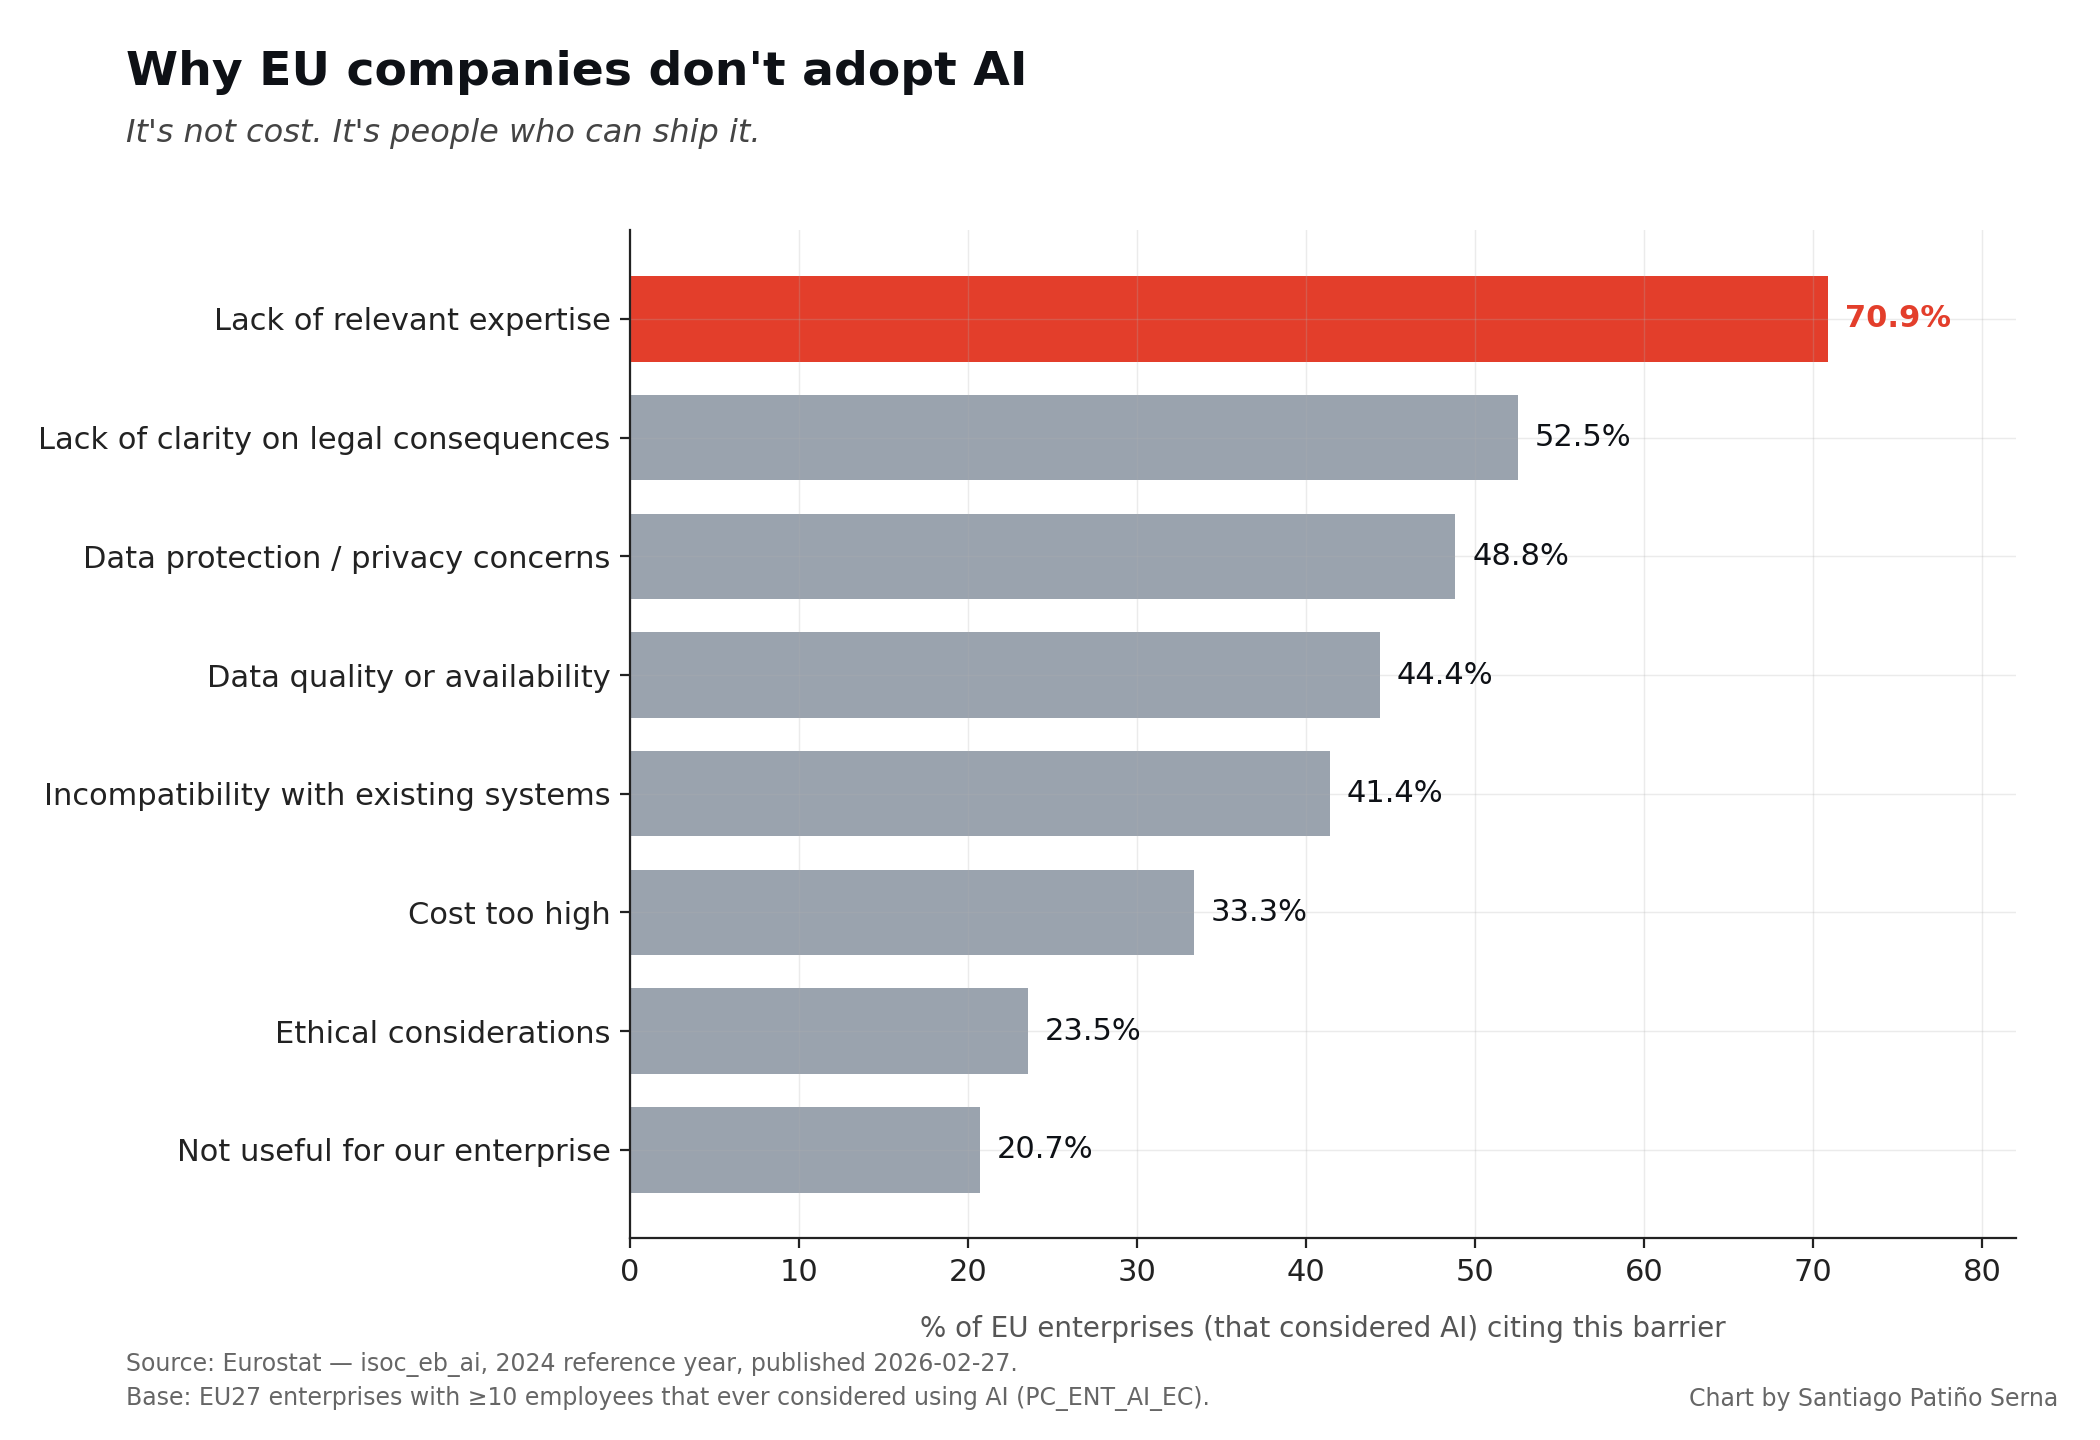
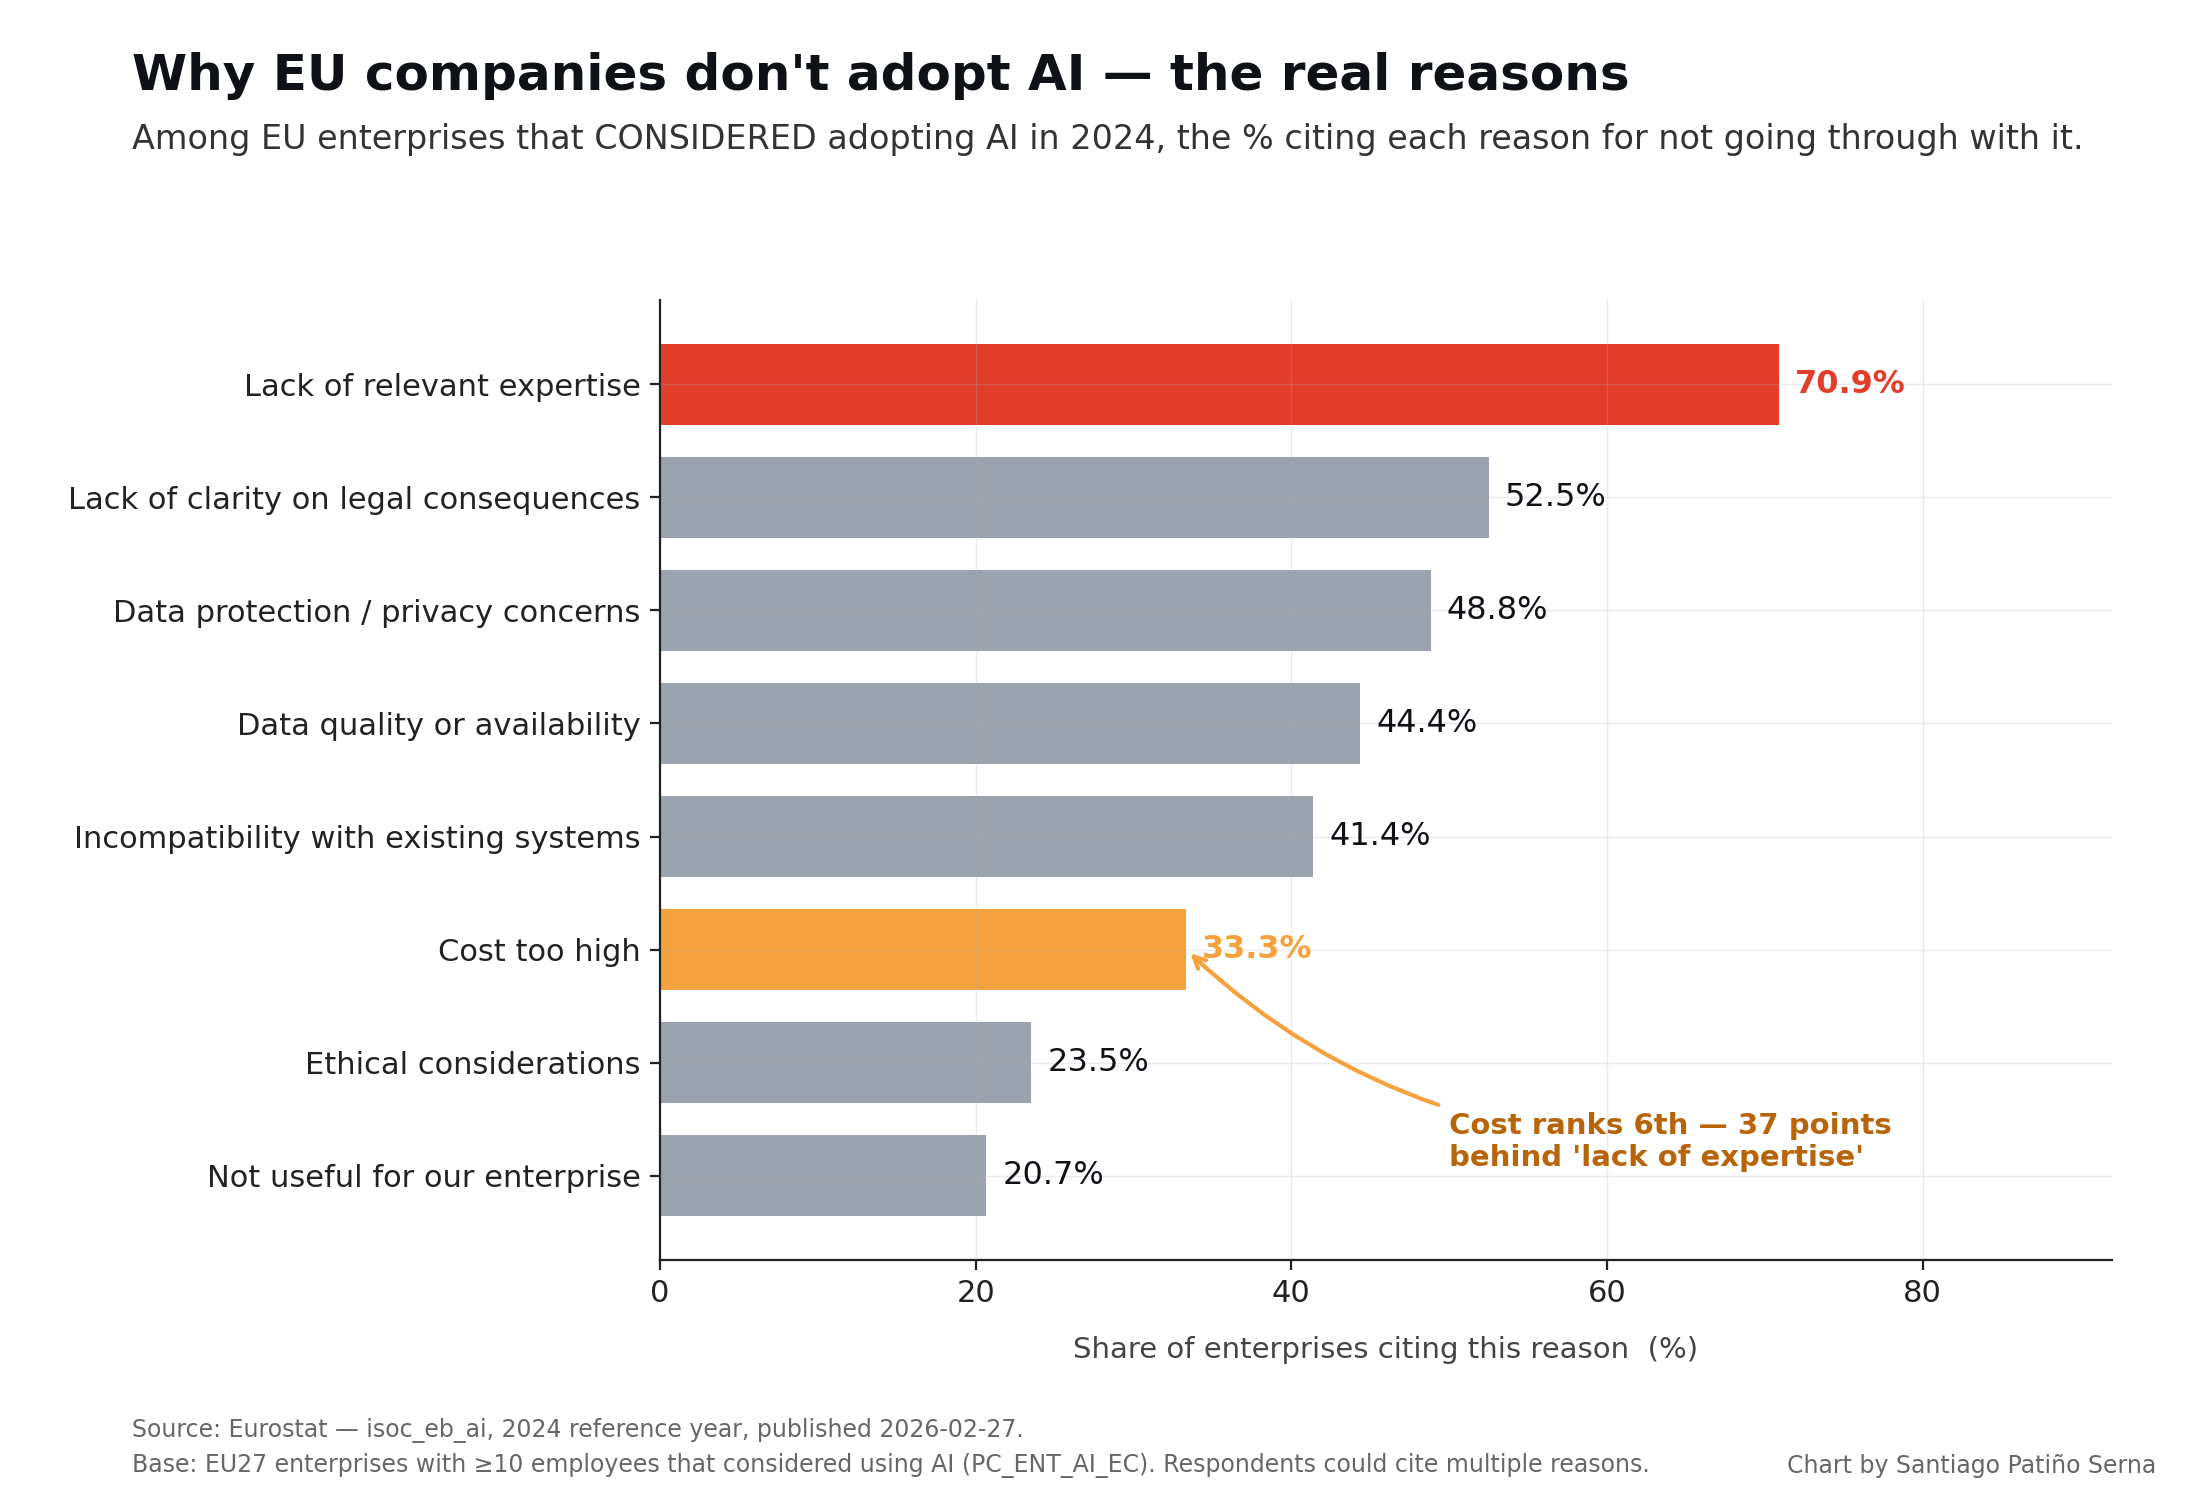
charts: clearer titles + subtitles + annotations
- Each chart now states WHAT is measured in the subtitle (not just axis label)
- Added highlight annotations to surface the surprise finding directly
- Chart 1: arrow to 'Cost ranks 6th — 37 points behind expertise'
- Chart 2: Spain 5.1x gap annotation, fixed '32 countries' label
- Chart 3: 'ChatGPT launched Nov 2022. 41 months later: 1 in 20'
- Fixed footer/xlabel overlap

diff --git a/scripts/chart.py b/scripts/chart.py
@@ -1,9 +1,11 @@
 """
-Build three charts (PNGs in charts/):
+Build three charts (PNGs in charts/). Each chart must communicate
+in 1 second what is being measured, who is in the universe, and what
+the finding is.
 
-  chart_barriers.png      ── Why EU enterprises don't adopt AI
-  chart_size_gap.png      ── AI adoption: small vs large by country
-  chart_genai_reality.png ── EU GenAI use in production
+  chart_barriers.png      ── Why EU enterprises don't adopt AI (cost ranks 6th)
+  chart_size_gap.png      ── AI adoption: small vs large enterprise by country
+  chart_genai_reality.png ── EU GenAI use in production is 5.41%
 
 Run from repo root:  python scripts/chart.py
 """
@@ -40,16 +42,18 @@ BG = "#FFFFFF"
 
 
 def add_titles(fig, title, subtitle):
-    fig.text(0.06, 0.965, title, fontsize=17, fontweight="bold", color=INK, ha="left", va="top")
-    fig.text(0.06, 0.918, subtitle, fontsize=11.5, color="#444", style="italic", ha="left", va="top")
+    fig.text(0.06, 0.965, title, fontsize=18, fontweight="bold", color=INK, ha="left", va="top")
+    fig.text(0.06, 0.918, subtitle, fontsize=12, color="#333", ha="left", va="top")
 
 
 def add_footer(fig, source, credit="Chart by Santiago Patiño Serna"):
-    fig.text(0.06, 0.02, source, fontsize=8.5, color="#666", ha="left", va="bottom", linespacing=1.5)
-    fig.text(0.98, 0.02, credit, fontsize=8.5, color="#666", ha="right", va="bottom")
+    fig.text(0.06, 0.015, source, fontsize=8.5, color="#666", ha="left", va="bottom", linespacing=1.5)
+    fig.text(0.98, 0.015, credit, fontsize=8.5, color="#666", ha="right", va="bottom")
 
 
-# ---------- CHART 1: barriers ----------
+# ===================================================================
+# CHART 1 — Barriers
+# ===================================================================
 barriers = [
     ("Lack of relevant expertise",            70.89),
     ("Lack of clarity on legal consequences", 52.52),
@@ -62,40 +66,55 @@ barriers = [
 ]
 labels = [b[0] for b in barriers][::-1]
 values = [b[1] for b in barriers][::-1]
-colors = [HIGHLIGHT if v == 70.89 else MUTED for v in values]
+colors = [HIGHLIGHT if v == 70.89 else ("#F4A23E" if v == 33.34 else MUTED) for v in values]
 
-fig, ax = plt.subplots(figsize=(10.5, 7.2), dpi=200)
+fig, ax = plt.subplots(figsize=(11, 7.5), dpi=200)
 fig.patch.set_facecolor(BG); ax.set_facecolor(BG)
-fig.subplots_adjust(left=0.30, right=0.96, top=0.84, bottom=0.14)
+fig.subplots_adjust(left=0.30, right=0.96, top=0.80, bottom=0.16)
 
 bars = ax.barh(labels, values, color=colors, edgecolor="none", height=0.72)
-for bar, v in zip(bars, values):
+for bar, v, l in zip(bars, values, labels):
+    is_top = (v == 70.89)
+    is_cost = (l == "Cost too high")
+    color = HIGHLIGHT if is_top else ("#F4A23E" if is_cost else INK)
+    weight = "bold" if (is_top or is_cost) else "normal"
     ax.text(v + 1, bar.get_y() + bar.get_height()/2, f"{v:.1f}%",
-            va="center", ha="left", fontsize=11,
-            color=HIGHLIGHT if v == 70.89 else INK,
-            fontweight="bold" if v == 70.89 else "normal")
-ax.set_xlim(0, 82)
-ax.set_xlabel("% of EU enterprises (that considered AI) citing this barrier",
-              fontsize=10, color="#555", labelpad=10)
+            va="center", ha="left", fontsize=11.5,
+            color=color, fontweight=weight)
+
+cost_y_idx = labels.index("Cost too high")
+ax.annotate("Cost ranks 6th — 37 points\nbehind 'lack of expertise'",
+            xy=(33.34, cost_y_idx), xytext=(50, cost_y_idx - 1.7),
+            fontsize=10.5, color="#B8650A", fontweight="bold",
+            ha="left", va="center",
+            arrowprops=dict(arrowstyle="->", color="#F4A23E", lw=1.5,
+                            connectionstyle="arc3,rad=-0.2"))
+
+ax.set_xlim(0, 92)
+ax.set_xlabel("Share of enterprises citing this reason  (%)",
+              fontsize=10.5, color="#444", labelpad=10)
+
 add_titles(fig,
-           "Why EU companies don't adopt AI",
-           "It's not cost. It's people who can ship it.")
+           "Why EU companies don't adopt AI — the real reasons",
+           "Among EU enterprises that CONSIDERED adopting AI in 2024, the % citing each reason for not going through with it.")
 add_footer(fig,
            "Source: Eurostat — isoc_eb_ai, 2024 reference year, published 2026-02-27.\n"
-           "Base: EU27 enterprises with ≥10 employees that ever considered using AI (PC_ENT_AI_EC).")
+           "Base: EU27 enterprises with ≥10 employees that considered using AI (PC_ENT_AI_EC). Respondents could cite multiple reasons.")
 plt.savefig(os.path.join(CHARTS_DIR, "chart_barriers.png"), dpi=200, facecolor=BG)
 print("Saved charts/chart_barriers.png"); plt.close()
 
 
-# ---------- CHART 2: small vs large dumbbell ----------
+# ===================================================================
+# CHART 2 — Size gap dumbbell
+# ===================================================================
 df_gap = pd.read_csv(os.path.join(DATA_DIR, "ai_adoption_country_size_gap.csv"))
 df_gap = df_gap.dropna(subset=["small_10_49", "large_250plus"]).copy()
 df_gap = df_gap.sort_values("small_10_49", ascending=True).reset_index(drop=True)
 HILITE = {"Spain": HIGHLIGHT, "France": "#F39C12"}
 
-fig, ax = plt.subplots(figsize=(10.5, 11.5), dpi=200)
+fig, ax = plt.subplots(figsize=(11, 12), dpi=200)
 fig.patch.set_facecolor(BG); ax.set_facecolor(BG)
-fig.subplots_adjust(left=0.22, right=0.96, top=0.92, bottom=0.08)
+fig.subplots_adjust(left=0.22, right=0.96, top=0.90, bottom=0.10)
 
 y = np.arange(len(df_gap))
 for i, row in df_gap.iterrows():
@@ -104,11 +123,11 @@ for i, row in df_gap.iterrows():
     dot_small = color_lbl if color_lbl else "#6B7280"
     dot_large = color_lbl if color_lbl else INK
     ax.hlines(i, row["small_10_49"], row["large_250plus"],
-              color=line_color, linewidth=2.4, alpha=0.85, zorder=1)
-    ax.scatter(row["small_10_49"], i, s=70, color=dot_small, zorder=2,
-               edgecolor="white", linewidth=0.8)
-    ax.scatter(row["large_250plus"], i, s=110, color=dot_large, zorder=3,
-               edgecolor="white", linewidth=0.8)
+              color=line_color, linewidth=2.6, alpha=0.85, zorder=1)
+    ax.scatter(row["small_10_49"], i, s=80, color=dot_small, zorder=2,
+               edgecolor="white", linewidth=1)
+    ax.scatter(row["large_250plus"], i, s=130, color=dot_large, zorder=3,
+               edgecolor="white", linewidth=1)
 
 display_labels = [
     lbl.replace("European Union - 27 countries (from 2020)", "EU27")
@@ -116,28 +135,43 @@ display_labels = [
     for lbl in df_gap["geo_label"]
 ]
 ax.set_yticks(y)
-ax.set_yticklabels(display_labels, fontsize=9.5)
+ax.set_yticklabels(display_labels, fontsize=10)
 for tick, lbl in zip(ax.get_yticklabels(), df_gap["geo_label"]):
     if lbl in HILITE:
         tick.set_color(HILITE[lbl]); tick.set_fontweight("bold")
-ax.set_xlim(0, 75)
-ax.set_xlabel("% of enterprises using at least one AI technology, 2024",
-              fontsize=10, color="#555", labelpad=10)
+
+spain_idx = df_gap.index[df_gap["geo_label"] == "Spain"].tolist()
+if spain_idx:
+    si = spain_idx[0]
+    ax.annotate(f"Spain: 5.1× gap\n(8.6% small → 44.0% large)",
+                xy=(43.96, si), xytext=(54, si + 1.5),
+                fontsize=10.5, color=HIGHLIGHT, fontweight="bold",
+                ha="left", va="center",
+                arrowprops=dict(arrowstyle="->", color=HIGHLIGHT, lw=1.4,
+                                connectionstyle="arc3,rad=0.2"))
+
+ax.set_xlim(0, 80)
+ax.set_xlabel("Share of enterprises using at least one AI technology  (%)",
+              fontsize=10.5, color="#444", labelpad=10)
+
 small_dot = mpatches.Patch(color="#6B7280", label="Small (10–49 employees)")
 large_dot = mpatches.Patch(color=INK,       label="Large (250+ employees)")
 ax.legend(handles=[small_dot, large_dot], loc="lower right",
-          frameon=False, fontsize=10)
+          frameon=False, fontsize=10.5)
+
 add_titles(fig,
-           "The AI mid-market gap is structural, not cultural",
-           "Small enterprises (10–49) vs large (250+) — 32 European countries, 2024")
+           "The bigger the company, the more AI it uses",
+           "Gap between small (10–49 employees) and large (250+) in each country — 2024, 32 countries.")
 add_footer(fig,
            "Source: Eurostat — isoc_eb_ai, 2024 reference year, published 2026-02-27.\n"
-           "Indicator E_AI_TANY, unit PC_ENT (% of enterprises in size class).")
+           "Indicator E_AI_TANY (uses at least one AI tech), unit PC_ENT (% of enterprises in each size class).")
 plt.savefig(os.path.join(CHARTS_DIR, "chart_size_gap.png"), dpi=200, facecolor=BG)
 print("Saved charts/chart_size_gap.png"); plt.close()
 
 
-# ---------- CHART 3: GenAI reality ----------
+# ===================================================================
+# CHART 3 — GenAI reality
+# ===================================================================
 genai = [
     ("ML / deep learning",   4.24),
     ("Image recognition",    3.23),
@@ -151,24 +185,34 @@ labels3 = [b[0] for b in genai]
 values3 = [b[1] for b in genai]
 colors3 = [HIGHLIGHT if "GenAI" in l else MUTED for l in labels3]
 
-fig, ax = plt.subplots(figsize=(10.5, 6), dpi=200)
+fig, ax = plt.subplots(figsize=(11, 6.5), dpi=200)
 fig.patch.set_facecolor(BG); ax.set_facecolor(BG)
-fig.subplots_adjust(left=0.22, right=0.96, top=0.82, bottom=0.20)
+fig.subplots_adjust(left=0.22, right=0.96, top=0.78, bottom=0.20)
 
 bars = ax.barh(labels3, values3, color=colors3, edgecolor="none", height=0.65)
 for bar, v, l in zip(bars, values3, labels3):
     ax.text(v + 0.15, bar.get_y() + bar.get_height()/2, f"{v:.2f}%",
-            va="center", ha="left", fontsize=11,
+            va="center", ha="left", fontsize=11.5,
             color=HIGHLIGHT if "GenAI" in l else INK,
             fontweight="bold" if "GenAI" in l else "normal")
-ax.set_xlim(0, 9)
-ax.set_xlabel("% of EU27 enterprises (10+ employees) using this AI technology, 2024",
-              fontsize=10, color="#555", labelpad=10)
+
+genai_idx = labels3.index("GenAI text/code")
+ax.annotate("ChatGPT launched\nNov 2022. 41 months later:\n1 in 20 EU enterprises.",
+            xy=(5.41, genai_idx), xytext=(6.8, genai_idx - 1.3),
+            fontsize=10.5, color=HIGHLIGHT, fontweight="bold",
+            ha="left", va="center",
+            arrowprops=dict(arrowstyle="->", color=HIGHLIGHT, lw=1.4,
+                            connectionstyle="arc3,rad=-0.2"))
+
+ax.set_xlim(0, 11)
+ax.set_xlabel("Share of EU enterprises (10+ employees) using this technology in 2024  (%)",
+              fontsize=10.5, color="#444", labelpad=10)
+
 add_titles(fig,
            "GenAI is mainstream on LinkedIn. Not in EU production.",
-           "Only 5.41% of EU enterprises generate text or code with AI. ChatGPT shipped in 2022.")
+           "Share of EU27 enterprises (10+ employees) using each AI technology in production in 2024.")
 add_footer(fig,
            "Source: Eurostat — isoc_eb_ai, 2024 reference year, published 2026-02-27.\n"
-           "Indicators E_AI_TML, E_AI_TIR, E_AI_TSR, E_AI_TTM, E_AI_TNLG, E_AI_TPA. PC_ENT base.")
+           "Indicators E_AI_TML, E_AI_TIR, E_AI_TSR, E_AI_TTM, E_AI_TNLG, E_AI_TPA. Unit PC_ENT (% of all EU27 enterprises in size class).")
 plt.savefig(os.path.join(CHARTS_DIR, "chart_genai_reality.png"), dpi=200, facecolor=BG)
 print("Saved charts/chart_genai_reality.png"); plt.close()
